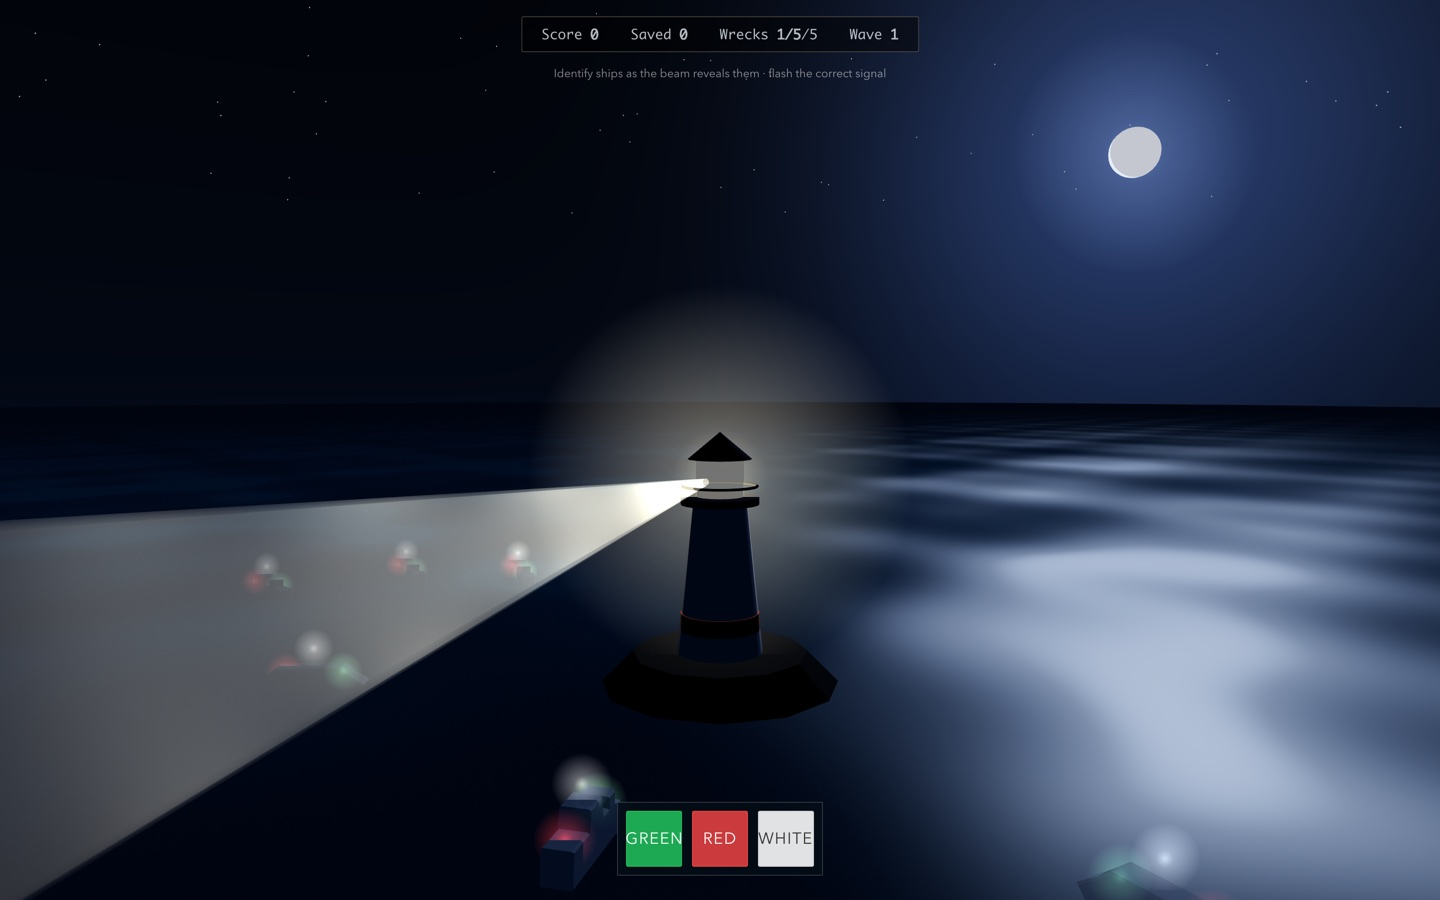
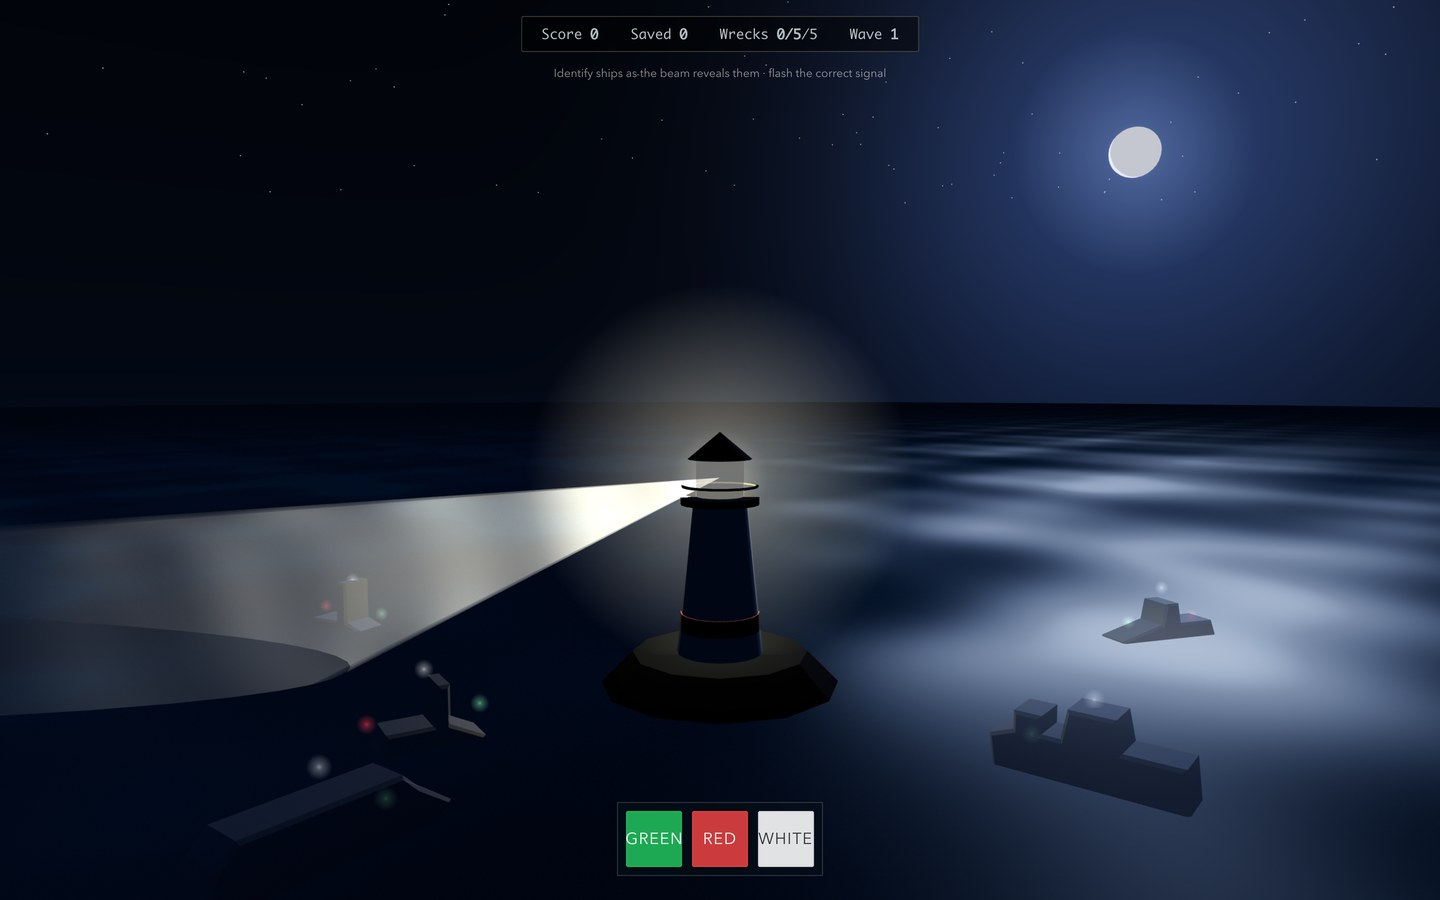
beacon: aim the light at the sea, and photograph the watch properly
The screenshots were underselling the build, and two of the reasons were real
defects rather than photography.

The beam never touched the water. Its apex sits at 39.8m and it was tipped just
0.10 rad, so at the 92m mark it was still ~30m above the surface — a wedge of
light floating over the scene, illuminating nothing. It is now aimed so its axis
meets the sea at the spawn ring, and widened so it washes the surface.

The beam was also not a light. "The beam reveals them" was a number multiplying an
alpha, while the hulls sat in ambient darkness. A SpotLight now rides the same
bearing as the shaft, so a vessel inside the wedge is genuinely lit by it and
takes the signal colour when one is flashed.

Ships read as blobs because the running-light sprites were 7.5 units against a
~15m hull — the lamps were half the length of the vessel carrying them. Hulls up,
lamps down, and an identified-but-unlit ship now holds a readable silhouette
instead of fading to a ghost.

Capture itself was the rest of it: shots were taken at whatever moment the clock
landed on, which is a poor way to photograph a rotating light. ?debug now exposes
window.BEACON (place/clear/setBeam/freeze), mirroring how the island exposes
ABYME, so a frame can be composed deliberately and reproducibly. Verified the hook
stays absent without ?debug. Story and hub images are re-shot from a composed
frame, rendered at 3x and downsampled.
[…]

diff --git a/docs/beacon/app.js b/docs/beacon/app.js
@@ -202,9 +202,20 @@ scene.add(new THREE.HemisphereLight(0x3a557f, 0x070f1c, 1.1));
 const moonlight = new THREE.DirectionalLight(0xbcd0ff, 0.85);
 moonlight.position.copy(MOON_DIR).multiplyScalar(400);
 scene.add(moonlight);
-const lamplight = new THREE.PointLight(0xffe9b0, 900, 420, 2);
+const lamplight = new THREE.PointLight(0xffe9b0, 26000, 520, 2);
 lamplight.position.set(0, 30, 0);
 scene.add(lamplight);
+
+// The beam is a LIGHT, not just a shaft of geometry. A spot bound to the same
+// bearing means a hull inside the wedge is genuinely illuminated by it — the
+// game's one mechanic ("the beam reveals them") made physical rather than a
+// number multiplying an alpha.
+const beamLight = new THREE.SpotLight(0xfff0c0, 900000, SPAWN * 1.45, 0.30, 0.55, 2);
+beamLight.position.set(0, 39.8, 0);
+const beamTarget = new THREE.Object3D();
+scene.add(beamTarget);
+beamLight.target = beamTarget;
+scene.add(beamLight);
 
 // ── Lighthouse ────────────────────────────────────────────
 const lighthouse = new THREE.Group();
@@ -249,22 +260,25 @@ beamMat.uniforms.uIntensity.value = 1;
 if (beamMat.uniforms.uFlip) beamMat.uniforms.uFlip.value = 1;
 if (beamMat.uniforms.uMist) beamMat.uniforms.uMist.value = 0.55;
 const BEAM_LEN = SPAWN * 1.25;
-const beamMesh = new THREE.Mesh(new THREE.ConeGeometry(BEAM_LEN * 0.15, BEAM_LEN, 26, 1, true), beamMat);
+const beamMesh = new THREE.Mesh(new THREE.ConeGeometry(BEAM_LEN * 0.21, BEAM_LEN, 30, 1, true), beamMat);
 beamMesh.geometry.translate(0, -BEAM_LEN / 2, 0);   // apex at the origin
 beamMesh.rotation.x = Math.PI / 2;                   // lay it flat, pointing -Z
 const beamPivot = new THREE.Group();
 beamPivot.position.set(0, 39.8, 0);
 beamPivot.add(beamMesh);
-beamMesh.rotation.x = Math.PI / 2 - 0.10;            // tip it slightly down onto the sea
+// Aim the shaft so its axis meets the sea out at the spawn ring. Tipped only
+// slightly, the beam left the lantern at 40m and was still ~30m above the water
+// where the ships are — a wedge of light floating over the scene, touching nothing.
+beamMesh.rotation.x = Math.PI / 2 - Math.atan(39.8 / (SPAWN * 0.92));
 scene.add(beamPivot);
 
 // ── Ship meshes ───────────────────────────────────────────
 const HULL_GEO = {};
 for (const [key, pts] of Object.entries(HULLS)) {
   const shape = new THREE.Shape();
-  pts.forEach(([x, y], i) => (i ? shape.lineTo(x * 0.26, -y * 0.26) : shape.moveTo(x * 0.26, -y * 0.26)));
+  pts.forEach(([x, y], i) => (i ? shape.lineTo(x * 0.46, -y * 0.46) : shape.moveTo(x * 0.46, -y * 0.46)));
   shape.closePath();
-  const geo = new THREE.ExtrudeGeometry(shape, { depth: 3.6, bevelEnabled: true, bevelSize: 0.3, bevelThickness: 0.3, bevelSegments: 1 });
+  const geo = new THREE.ExtrudeGeometry(shape, { depth: 6.4, bevelEnabled: true, bevelSize: 0.5, bevelThickness: 0.5, bevelSegments: 1 });
   geo.center();
   geo.rotateY(Math.PI / 2);          // beam-on to the lantern
   HULL_GEO[key] = geo;
@@ -275,7 +289,7 @@ function makeShipMesh(typeKey) {
   const hull = new THREE.Mesh(HULL_GEO[typeKey], new THREE.MeshStandardMaterial({
     color: 0x9fa8ba, roughness: 0.72, metalness: 0.05,
   }));
-  hull.position.y = 2.6;
+  hull.position.y = 3.4;
   g.add(hull);
   // Running lights: red to port, green to starboard, white at the masthead. The
   // canvas build shipped none, in a game whose only verb is signalling with light.
@@ -283,13 +297,13 @@ function makeShipMesh(typeKey) {
     const s = new THREE.Sprite(new THREE.SpriteMaterial({
       map: GLOW_TEX, color: col, transparent: true, opacity: 0.95, depthWrite: false, blending: THREE.AdditiveBlending,
     }));
-    s.position.set(x, y, z); s.scale.setScalar(7.5); g.add(s);
+    s.position.set(x, y, z); s.scale.setScalar(3.2); g.add(s);
     return s;
   };
   g.userData.lamps = [
-    lamp(0, 4.0, 5.2, 0xff4444),
-    lamp(0, 4.0, -5.2, 0x44ff88),
-    lamp(0, 8.5, 0, 0xfff6dd),
+    lamp(0, 4.2, 9.0, 0xff4444),
+    lamp(0, 4.2, -9.0, 0x44ff88),
+    lamp(0, 11.5, 0, 0xfff6dd),
   ];
   g.userData.hull = hull;
   return g;
@@ -496,14 +510,19 @@ document.addEventListener('keydown', (e) => {
 // ── Scene sync ────────────────────────────────────────────
 function syncScene() {
   beamPivot.rotation.y = -beam.angle;
+  // Keep the spot on the same bearing as the shaft, aimed at the sea where the
+  // cone meets it, and tinted by whatever signal is being flashed.
+  const ba = beam.angle - Math.PI / 2;
+  beamTarget.position.set(Math.cos(ba) * SPAWN * 0.92, 0, Math.sin(ba) * SPAWN * 0.92);
   beamMat.uniforms.uTime.value = time * 0.016;
   const flash = signalFlashColor;
-  beamMat.uniforms.uColor.value.set(
-    flash === 'green' ? 0x22c55e : flash === 'red' ? 0xef4444 : flash === 'white' ? 0xffffff : 0xfff0c0,
-  );
+  const beamHex = flash === 'green' ? 0x22c55e : flash === 'red' ? 0xef4444 : flash === 'white' ? 0xffffff : 0xfff0c0;
+  beamMat.uniforms.uColor.value.set(beamHex);
+  beamLight.color.set(beamHex);
+  beamLight.intensity = 900000 * (0.85 + 0.15 * Math.sin(time * 0.08));
   wu.uTime.value = time * 0.016;
   const pulse = 0.86 + 0.14 * Math.sin(time * 0.08);
-  lamplight.intensity = 900 * pulse;
+  lamplight.intensity = 2600 * pulse;
 
   for (const ship of ships) {
     if (!ship.mesh) {
@@ -514,14 +533,19 @@ function syncScene() {
     ship.mesh.position.set(Math.cos(a) * ship.distance, 0, Math.sin(a) * ship.distance);
     ship.mesh.rotation.y = -a + Math.PI / 2;          // bow towards the light
     ship.mesh.position.y = Math.sin(time * 0.04 + ship.angle * 3) * 0.5;   // ride the swell
-    const seen = ship.seen && !ship.signaled && !ship.wrecked ? 0.22 : 0;
+    const seen = ship.seen && !ship.signaled && !ship.wrecked ? 0.38 : 0;
     const vis = Math.max(ship.lit, seen) * ship.opacity;
     const hull = ship.mesh.userData.hull;
     hull.material.emissive = hull.material.emissive || new THREE.Color();
-    hull.material.color.setHex(ship.wrecked ? 0x7f1d1d : ship.signaled ? 0x1f7a4d : 0xb9c3d6);
+    const base = ship.wrecked ? 0x7f1d1d : ship.signaled ? 0x1f7a4d : 0xb9c3d6;
+    hull.material.color.setHex(base);
+    if (!ship.wrecked && !ship.signaled) {
+      // Warm the hull towards the lamp as the beam holds it.
+      hull.material.color.lerp(new THREE.Color(0xfff0cd), ship.lit * 0.55);
+    }
     hull.material.emissive.setHex(ship.signaled ? 0x0d3a24 : 0x111c2c);
-    hull.material.emissiveIntensity = 0.35 + ship.lit * 0.9;
-    hull.material.opacity = Math.max(0.18, vis);
+    hull.material.emissiveIntensity = 0.12 + ship.lit * 0.18;
+    hull.material.opacity = Math.max(0.55, vis);
     hull.material.transparent = true;
     for (const l of ship.mesh.userData.lamps) l.material.opacity = 0.35 + vis * 0.6;
   }
@@ -547,6 +571,36 @@ resize();
 // The HTML calls these directly, and a module has no global scope.
 window.startGame = startGame;
 window.flashSignal = flashSignal;
+
+// ?debug exposes the watch for posed captures and playtests, the same way the
+// island exposes ABYME. Screenshots were being taken at whatever moment the clock
+// happened to land on, which is a poor way to photograph a rotating light.
+if (new URLSearchParams(location.search).has('debug')) {
+  window.BEACON = {
+    get ships() { return ships; },
+    beam, camera, scene, renderer, wu,
+    spawnShip, render,
+    // Place a vessel exactly: bearing in turns (0..1), distance in metres.
+    place(typeKey, bearingTurns, distance, lit = 1) {
+      spawnShip();
+      const ship = ships[ships.length - 1];
+      ship.typeKey = typeKey;
+      ship.type = SHIP_TYPES[typeKey];
+      ship.angle = bearingTurns * Math.PI * 2;
+      ship.distance = distance;
+      ship.lit = lit;
+      ship.seen = lit > 0.5;
+      if (ship.mesh) { scene.remove(ship.mesh); ship.mesh = null; }
+      return ship;
+    },
+    clear() {
+      for (const s of ships) if (s.mesh) scene.remove(s.mesh);
+      ships.length = 0;
+    },
+    setBeam(turns) { beam.angle = turns * Math.PI * 2; },
+    freeze() { running = false; },
+  };
+}
 
 // Idle scene behind the title card, so the watch is already running when you arrive.
 (function idle() {
